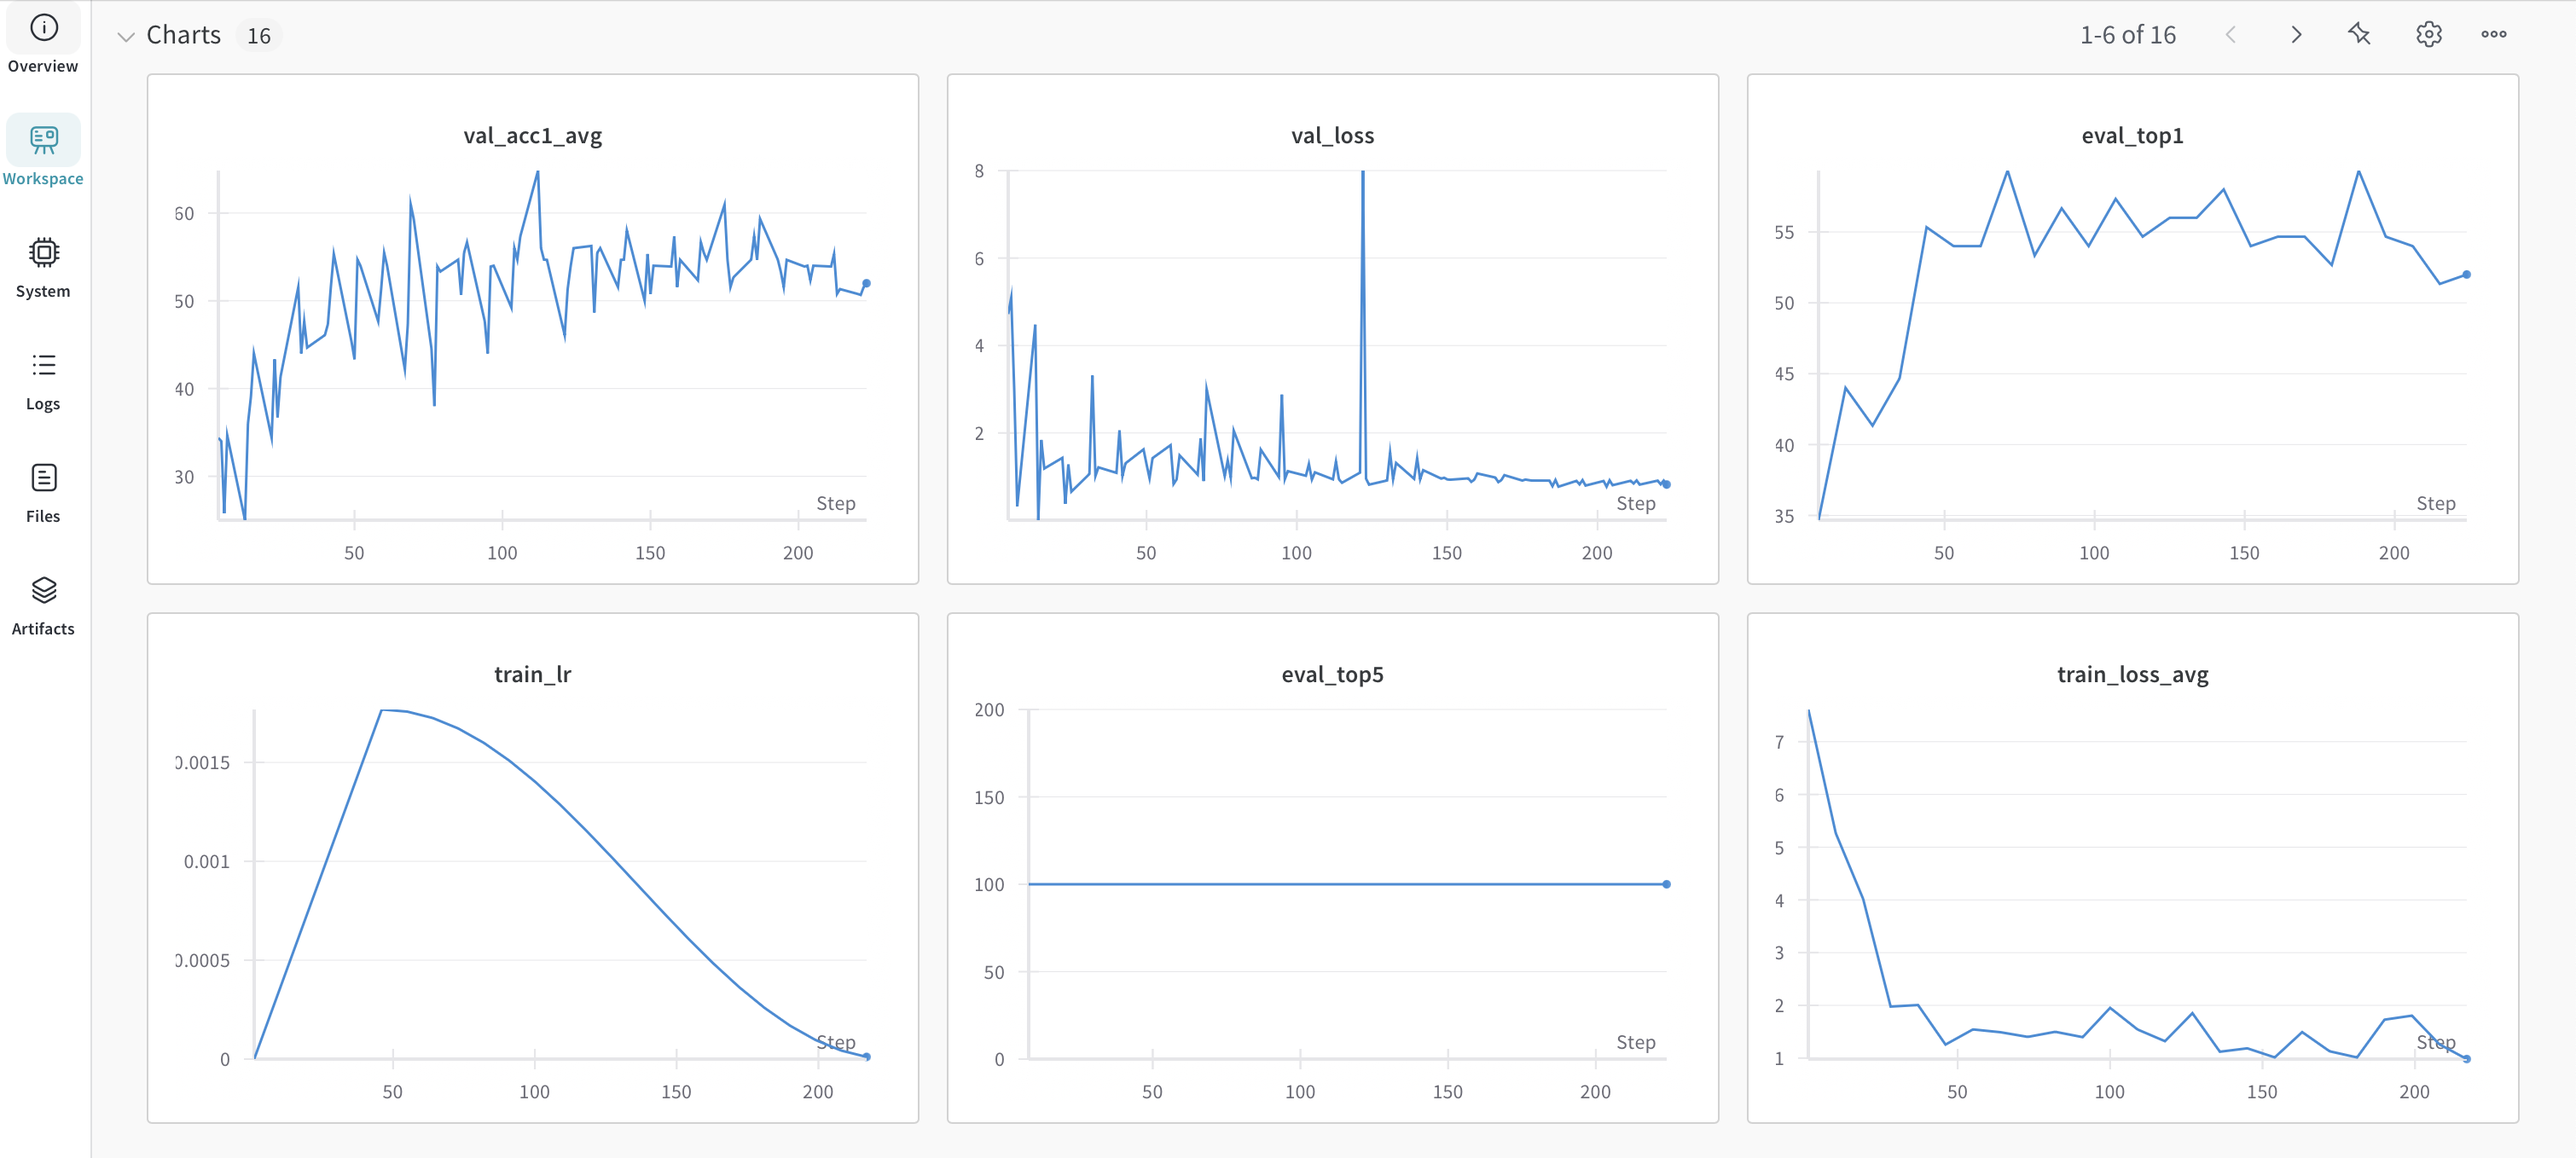
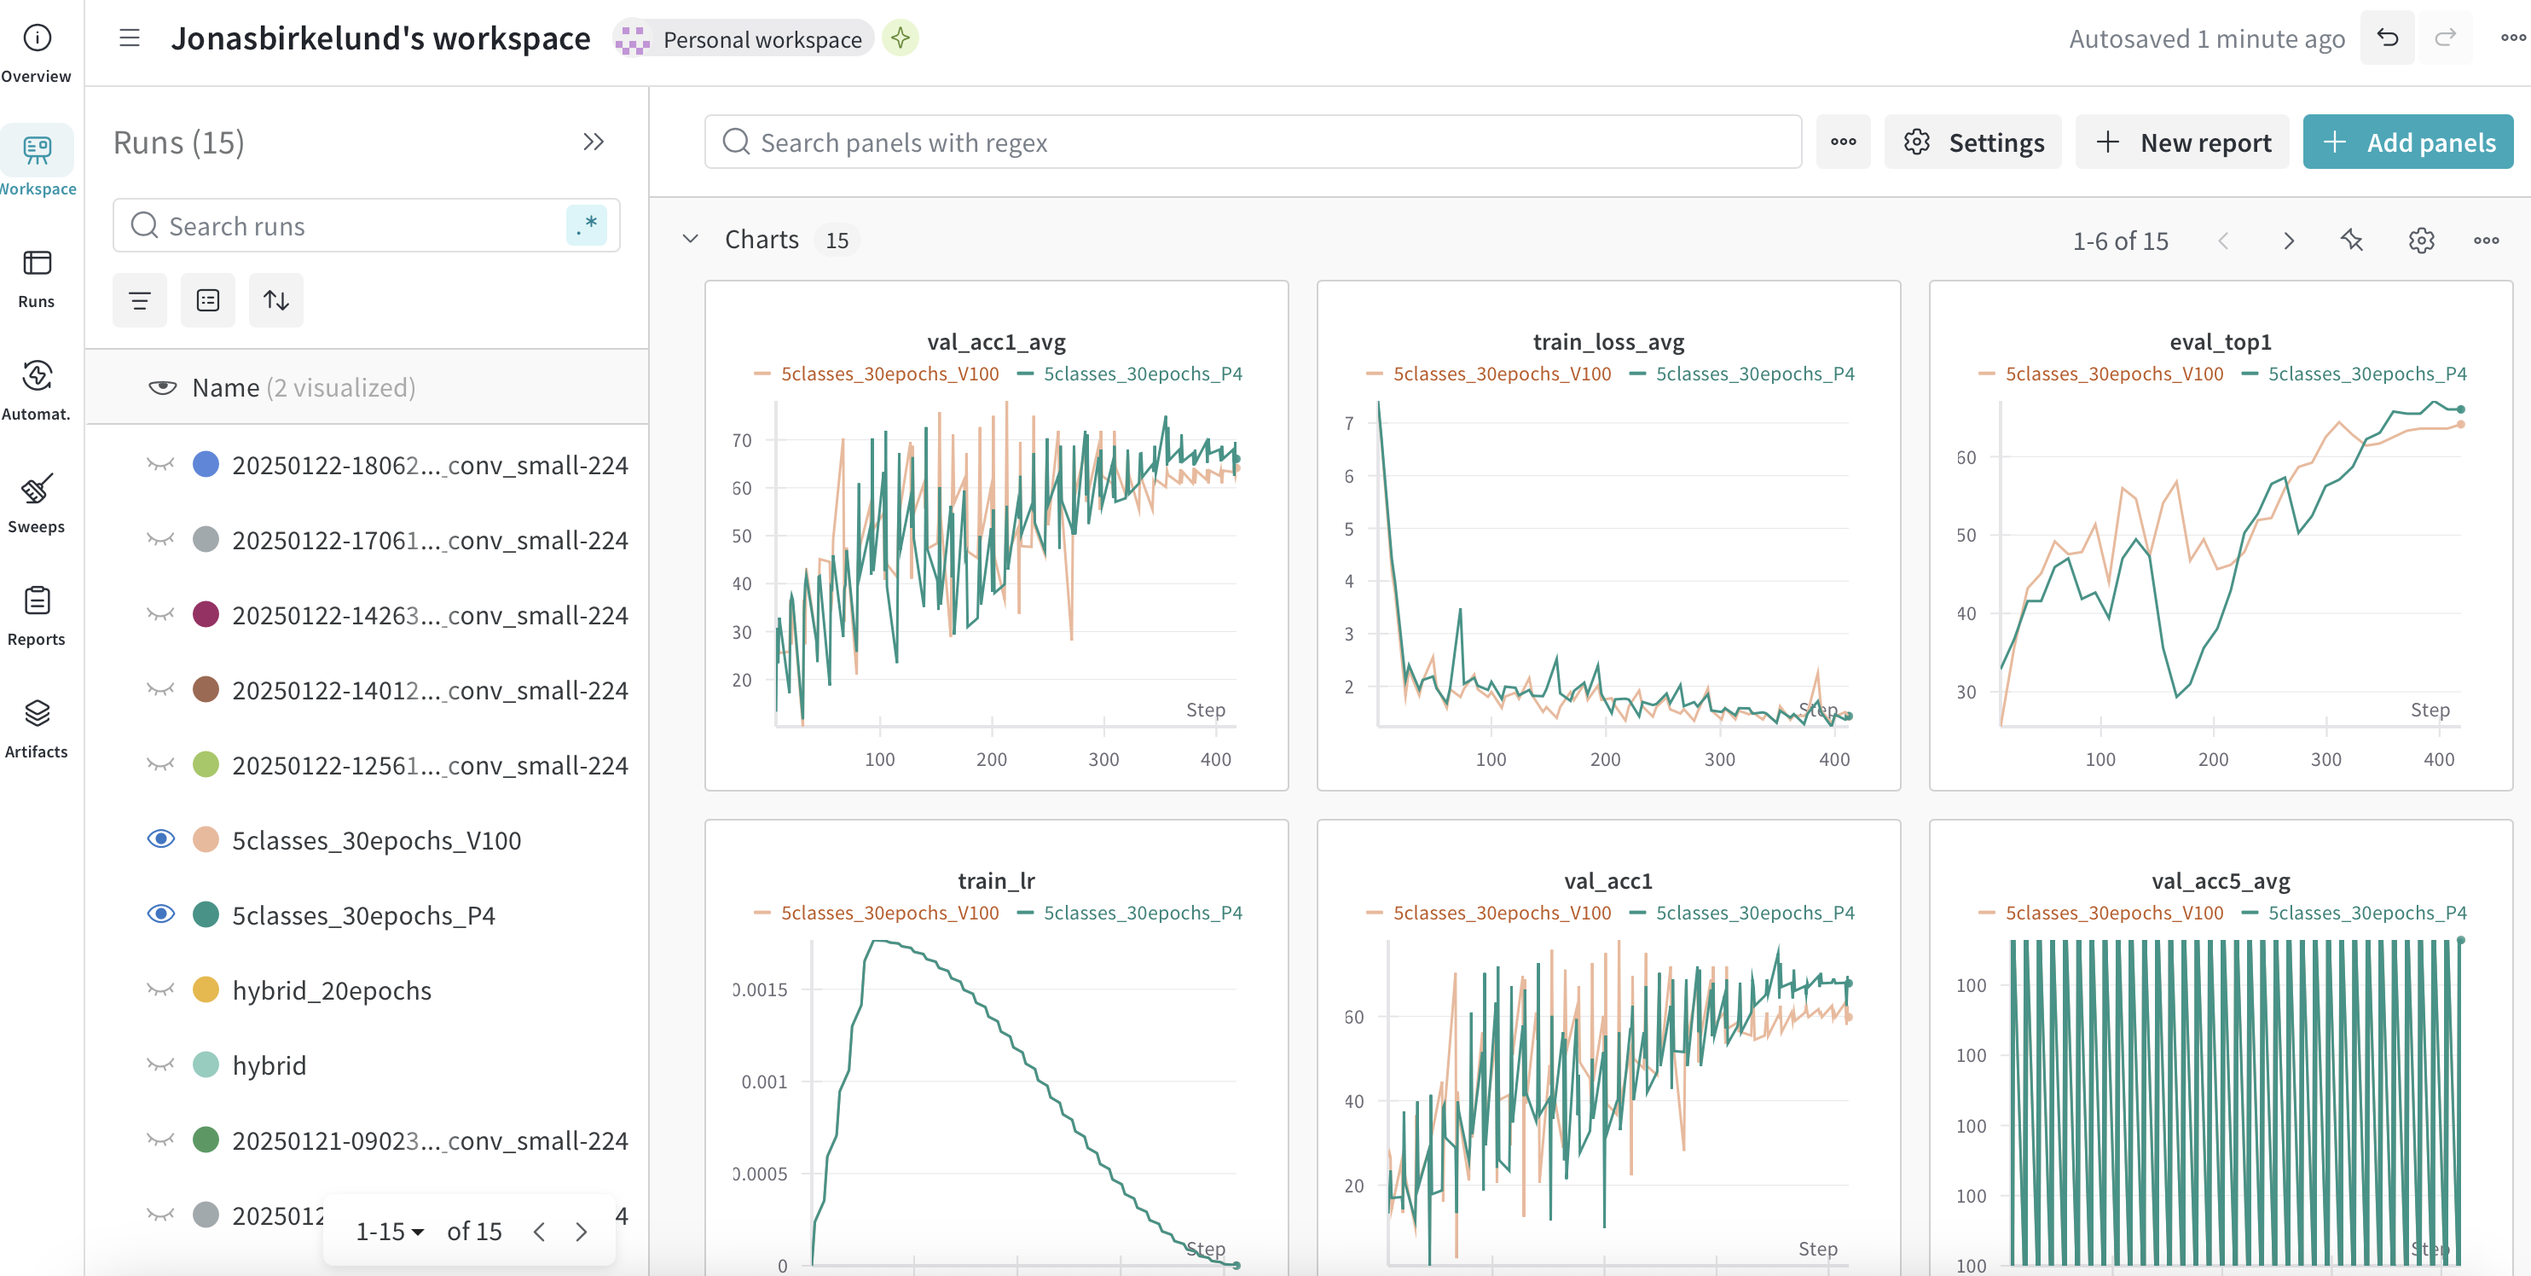
Update Q14

diff --git a/reports/README.md b/reports/README.md
@@ -395,7 +395,7 @@ For all our experiments, we tracked several metrics related to the model trainin
   
 * **ROC (Receiver Operating Characteristic) Curves**: ROC curves show how well the model is able to classify positive and negative examples. We opted to log a ROC curve for each training epoch that shows the per-class performance. This can help to understand the model's performance across different classes and identifying any potential issues.
 
-TODO: Elaborate more on the plots below
+Below we have shown two screenshots of experiments in W&B. The two experiments are two training runs done with different GPUs (P4 and V100). The first screenshot shows some loss and accuracy curves, while the second shows the ROC curves for a subset of epochs.
 
 ![wandb figure 1](figures/wandb_1.png)
 ![wandb figure 2](figures/wandb_2.png)
